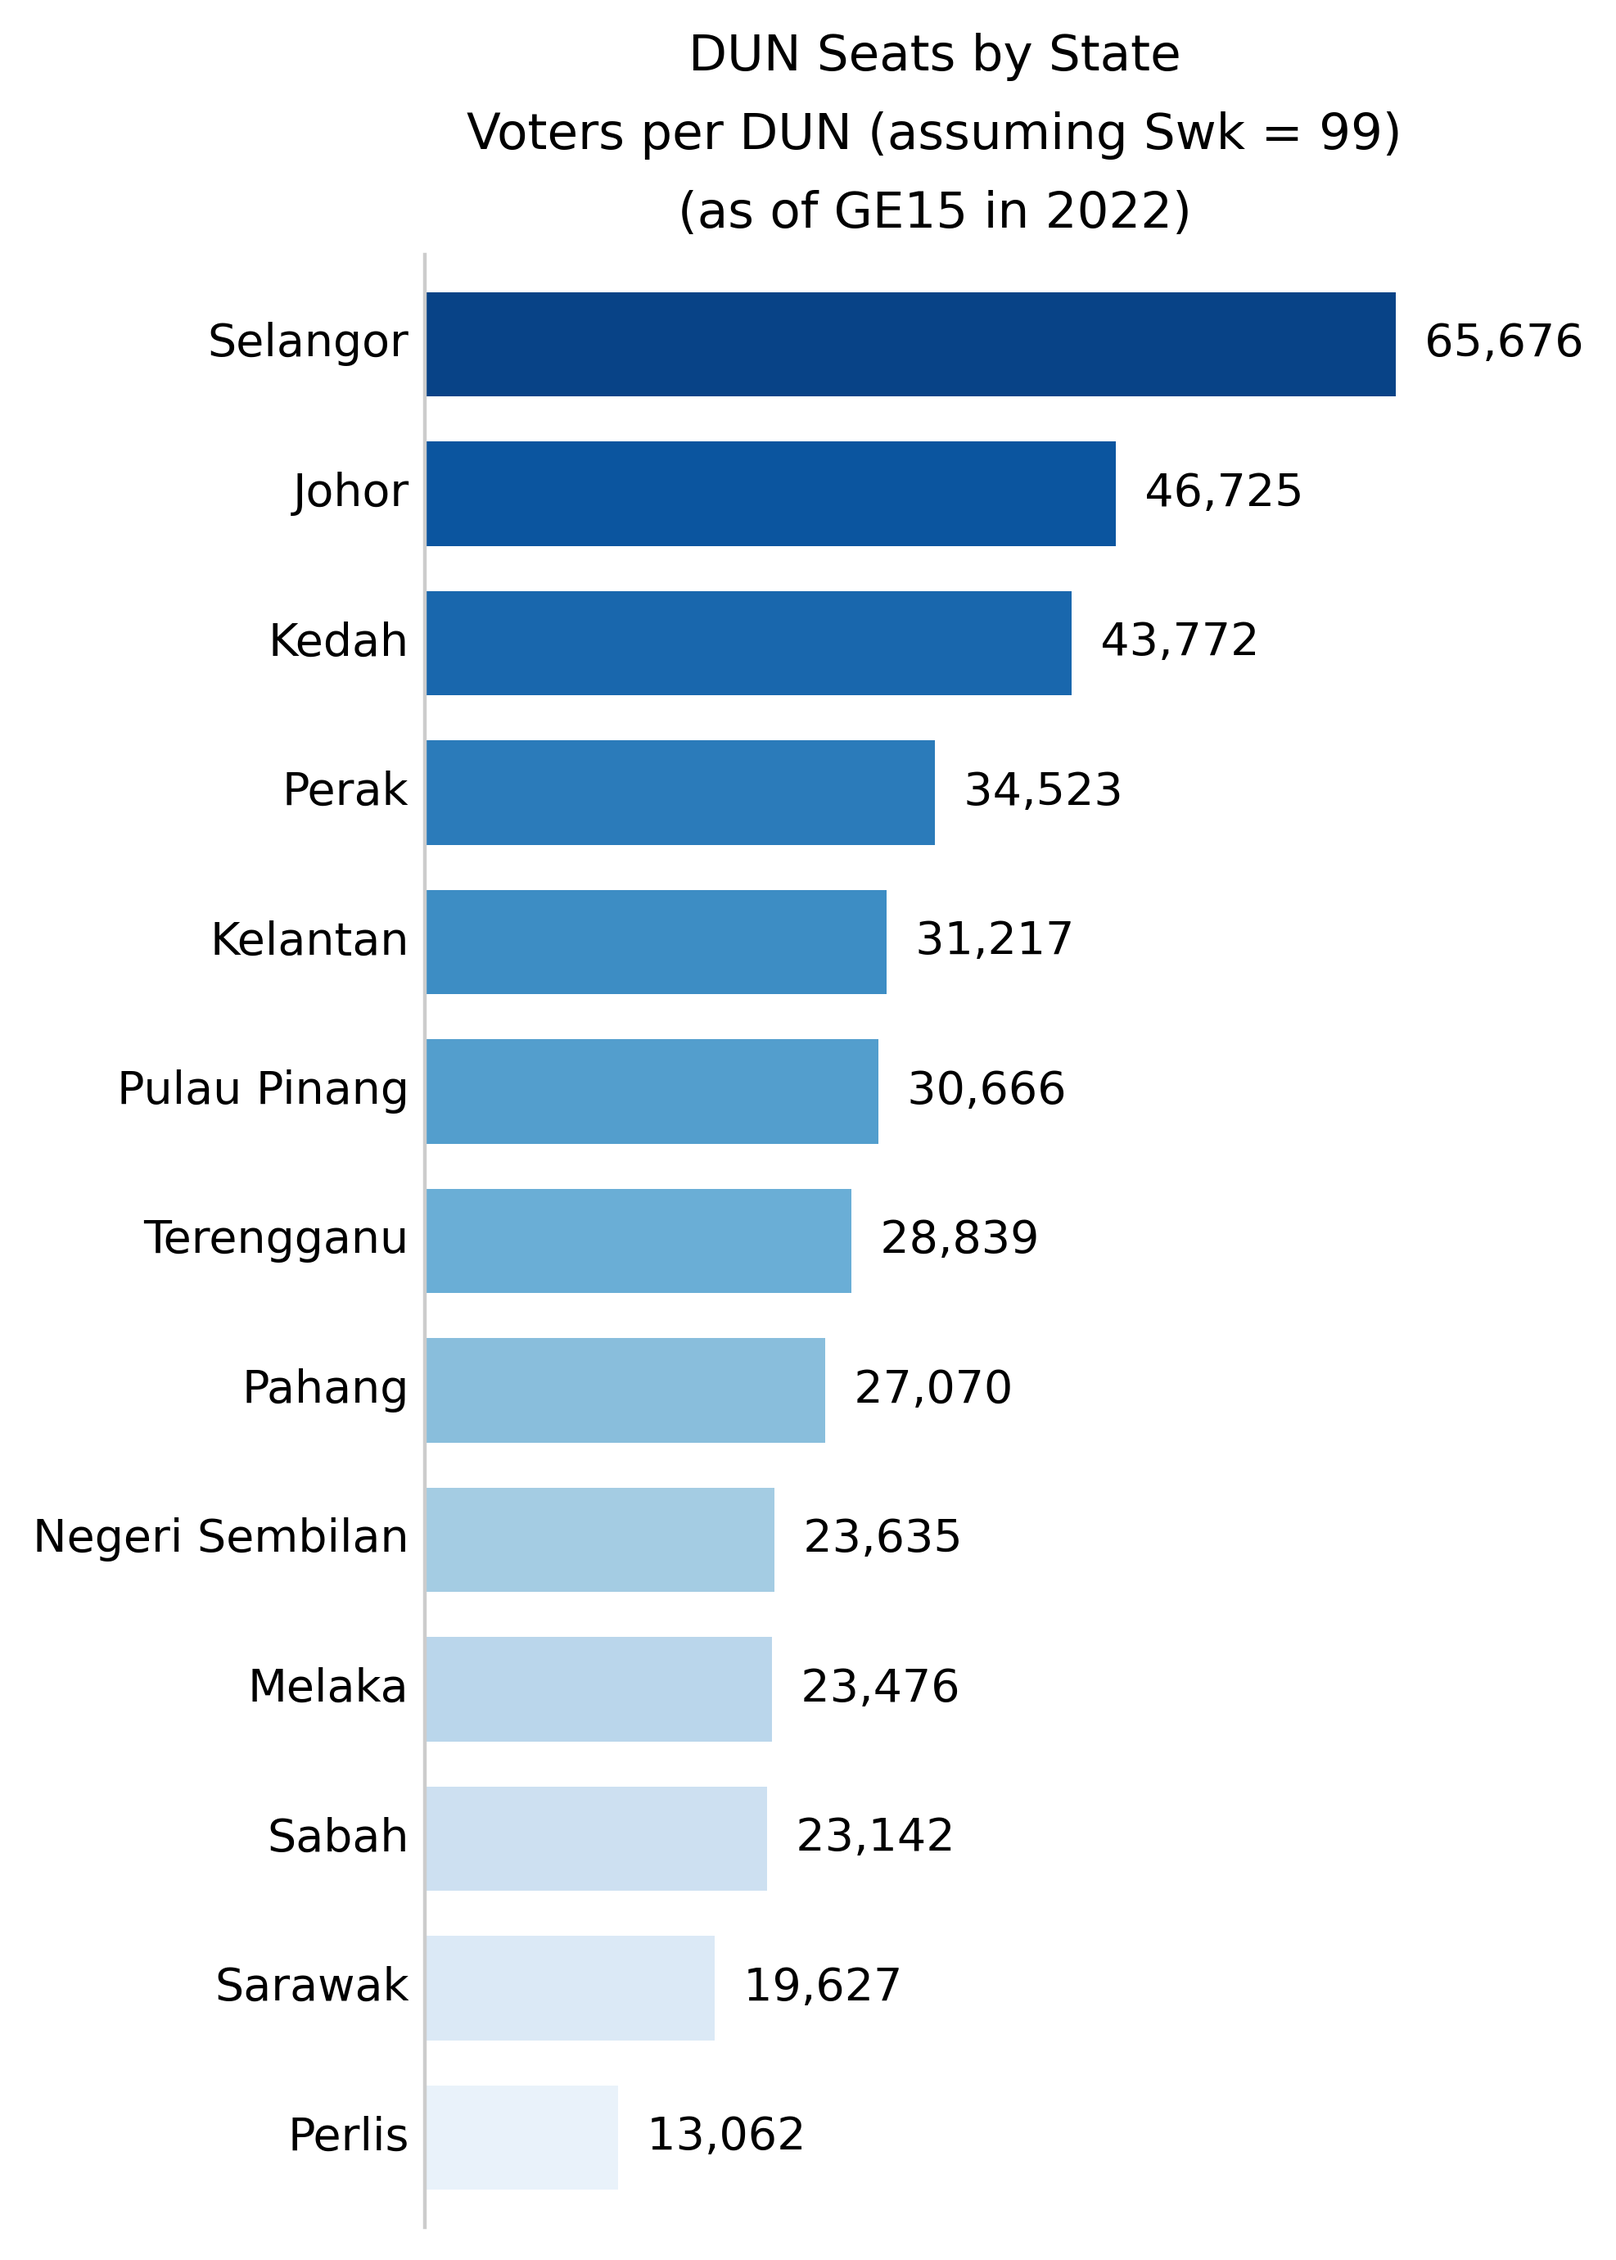
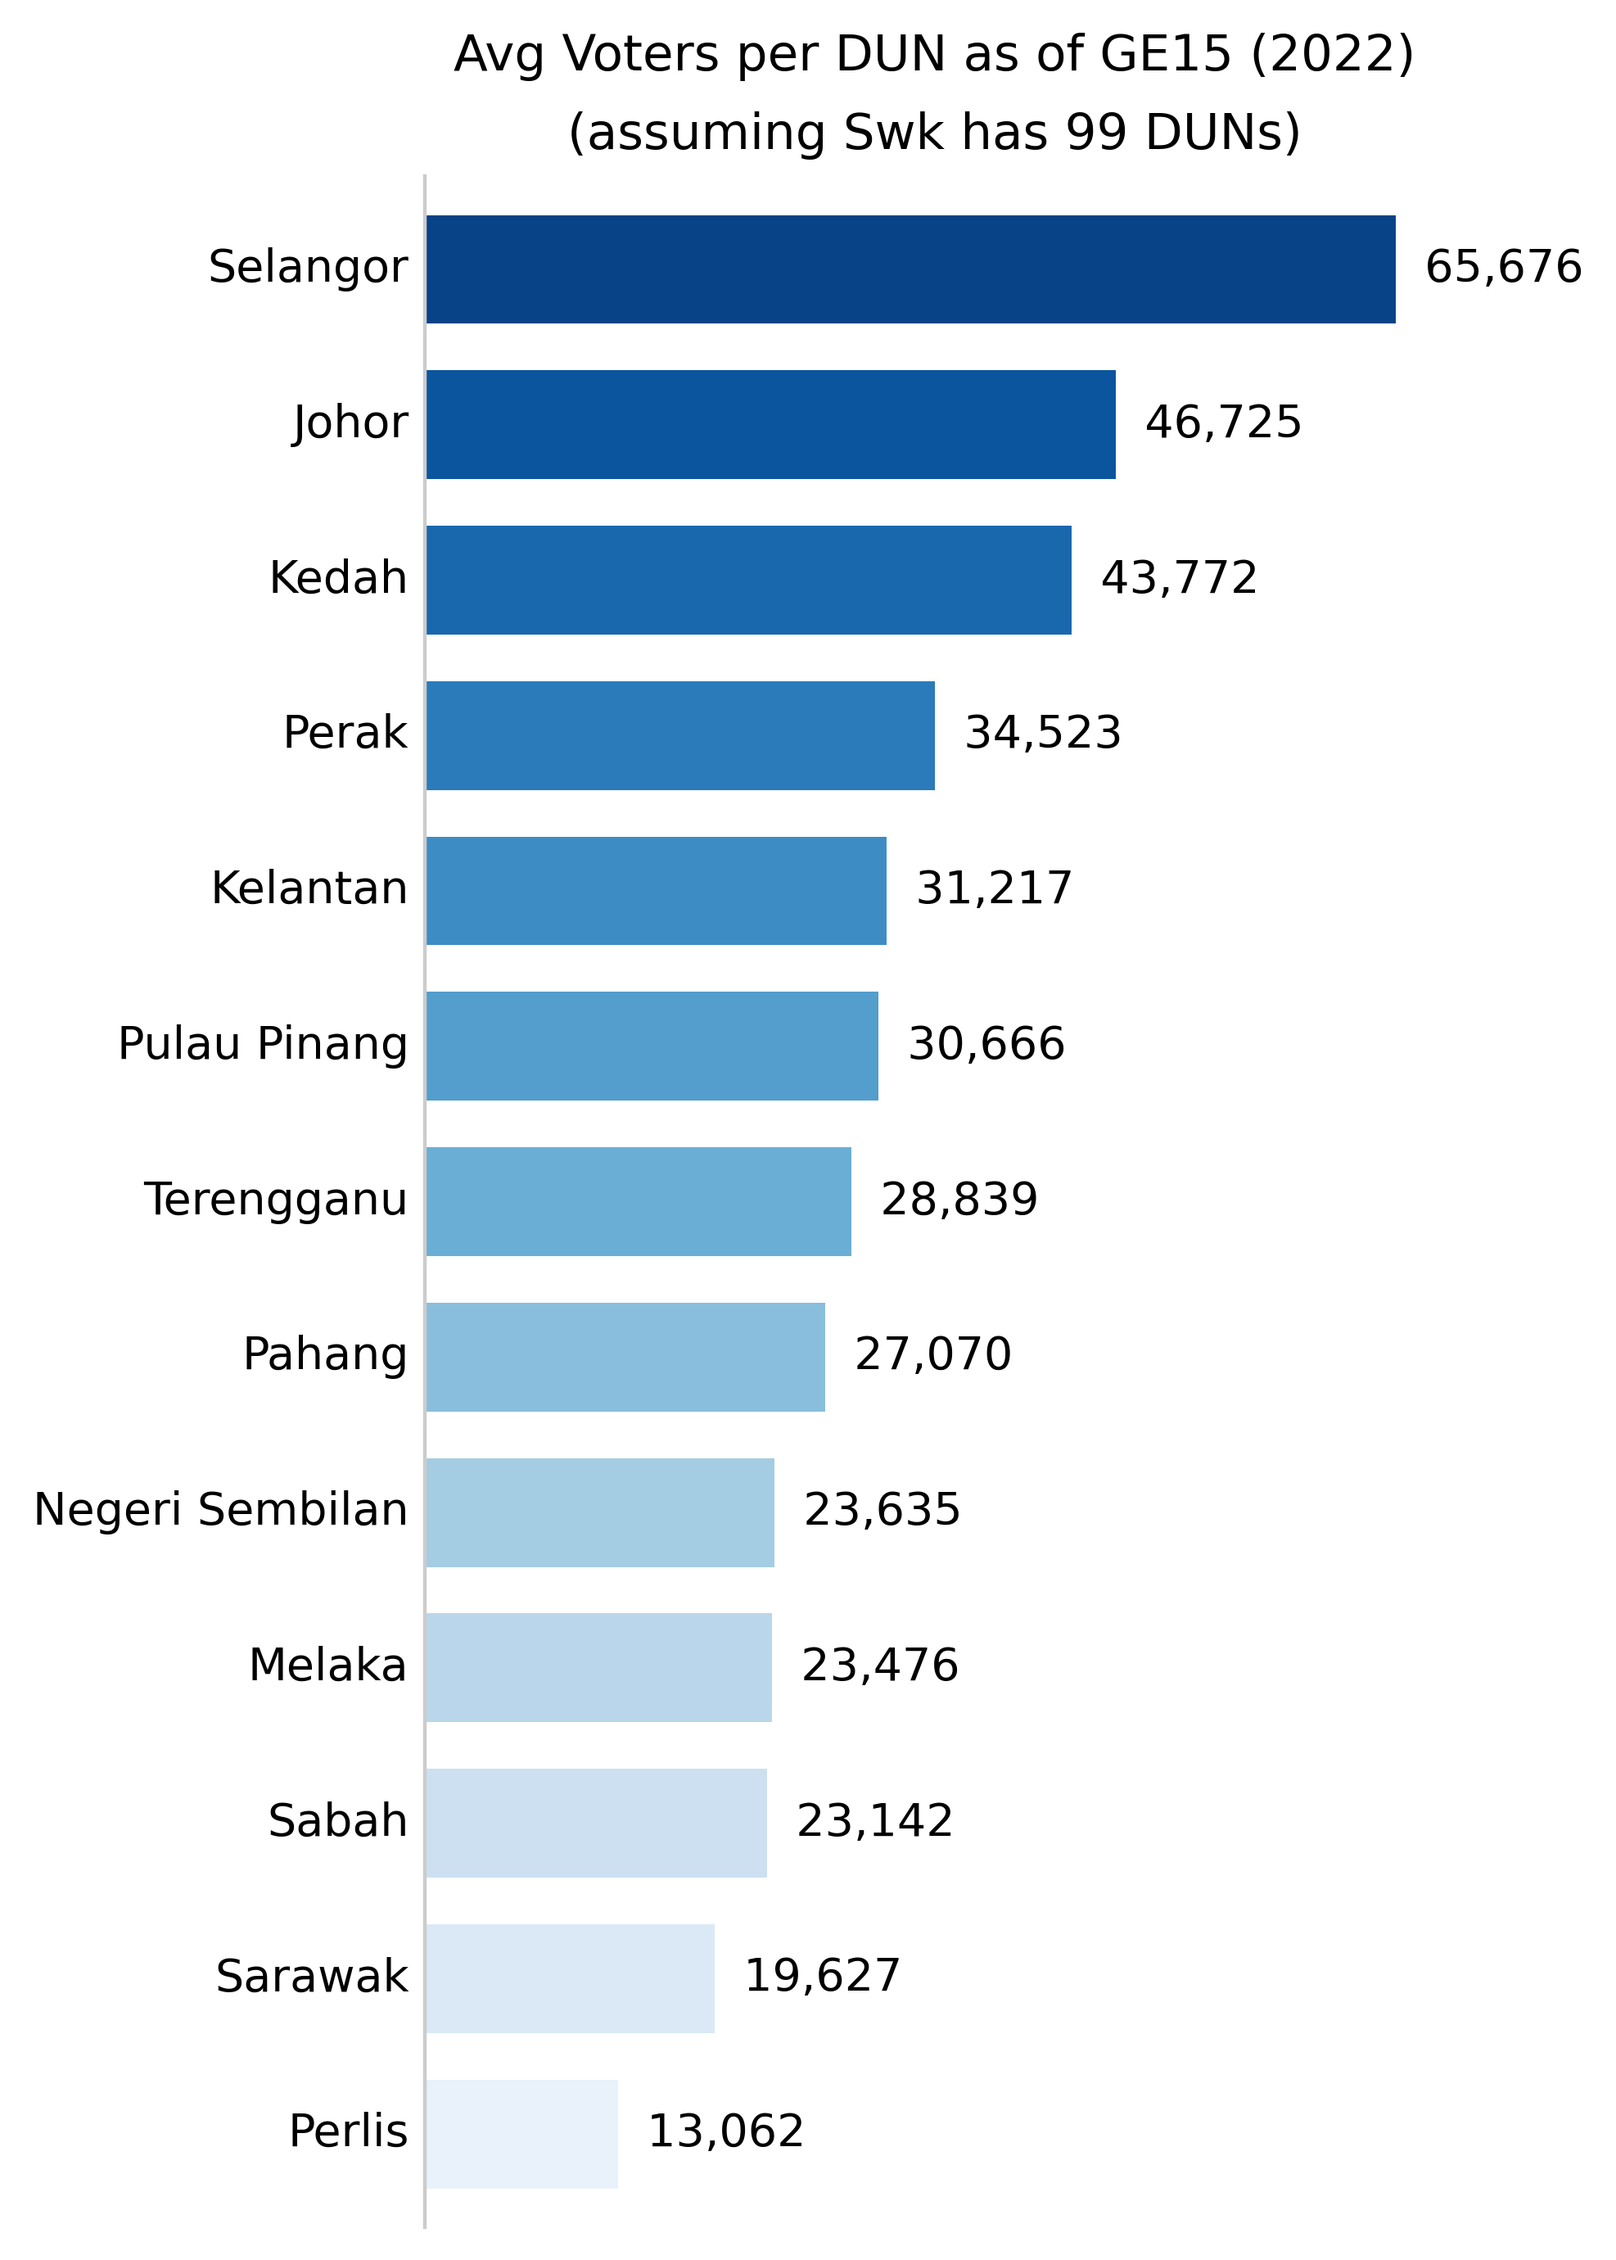
Add scatter chart for DUNs

diff --git a/2025-07-07_swk_dun/script.py b/2025-07-07_swk_dun/script.py
@@ -69,12 +69,13 @@ def bar_dun_size(V='maxmin'):
 
     pf = df.groupby('state').agg({'total': 'sum'}).reset_index()
     pf['seats'] = df.groupby('state').agg({'total': 'size'}).reset_index()['total']
+    pf.loc[pf.state == 'Sarawak','seats'] = 99
     pf['avg'] = pf['total'] / pf['seats']
     pf['min'] = df.groupby('state').agg({'total': 'min'}).reset_index()['total']
     pf['max'] = df.groupby('state').agg({'total': 'max'}).reset_index()['total']
     pf['maxmin'] = pf['max']/pf['min']
     pf['std'] = df.groupby('state').agg({'total': 'std'}).reset_index()['total']
-    pf = pf.sort_values(by='maxmin', ascending=True).set_index('state')
+    pf = pf.sort_values(by=V, ascending=True).set_index('state')
 
     plt.rcParams.update({'font.size': 10,
                         'font.family': 'sans-serif',
@@ -89,8 +90,8 @@ def bar_dun_size(V='maxmin'):
 
     # plot-wide adjustments
     SPACE = ''
-    var_desc = 'Size of biggest DUN vs smallest DUN' if V == 'maxmin' else 'Voters per DUN (assuming Swk = 99)'
-    ax.set_title(f"{SPACE}DUN Seats by State\n{var_desc}\n(as of GE15 in 2022)",linespacing=1.8,fontsize=11)
+    var_desc = 'Biggest DUN vs smallest DUN\nas of GE15 (2022)' if V == 'maxmin' else 'Avg Voters per DUN as of GE15 (2022)\n(assuming Swk has 99 DUNs)'
+    ax.set_title(f"{SPACE}{var_desc}",linespacing=1.8,fontsize=11)
     for b in ['top','right','bottom']: ax.spines[b].set_visible(False)
     ax.spines['left'].set_color('#cccccc')
     ax.get_legend().remove()
@@ -106,7 +107,10 @@ def bar_dun_size(V='maxmin'):
     ax.xaxis.grid(False)
     ax.get_xaxis().set_visible(False)
     for c in ax.containers:
-        labels = [f"  {pf[V].iloc[i]:,.2f}x" for i in range(len(pf))]
+        if V == 'maxmin':
+            labels = [f"  {pf[V].iloc[i]:,.2f}x" for i in range(len(pf))]
+        else:
+            labels = [f"  {pf[V].iloc[i]:,.0f}" for i in range(len(pf))]
         ax.bar_label(c, labels=labels,fontsize=10)
 
     # print chart title
@@ -121,7 +125,71 @@ def bar_dun_size(V='maxmin'):
     pf.sort_values(by='seats')
 
 
+def scatter_dun_eq():
+    df = pd.read_csv('voters_ge15.csv',usecols=['state','dun','total']).rename(columns={'total':'voters'})
+    df = df[~df.state.str.contains('W.P.')].reset_index(drop=True)
+    df['avg'] = df.groupby('state')['voters'].transform('mean').astype(int)
+    df['diff_eq'] = df.voters/df.avg
+    df['desc'] = 'Within 15% of avg'
+    df.loc[df.diff_eq > 1.15,'desc'] = 'Oversized'
+    df.loc[df.diff_eq < 0.85,'desc'] = 'Undersized'
+
+    af = df.groupby('state').agg({'diff_eq': 'size'}).reset_index()
+    af['undersized'] = df[df.diff_eq < 0.85].groupby('state').agg({'diff_eq': 'size'}).reset_index()['diff_eq']
+    af['prop_undersized'] = af.undersized/af.diff_eq
+    af['max_size'] = df.groupby('state').agg({'diff_eq': 'max'}).reset_index()['diff_eq']
+    af = af.sort_values(by='max_size',ascending=True)
+    STATE_PLOT = af.state.tolist()
+    df['diff_eq'] = (df.diff_eq * 100).round(2)
+
+    TARGET_PLOT = ['Undersized','Within 15% of avg','Oversized']
+    PLOT_COLOURS = ['blue','#c3c3c3','red']
+    COLOURS = dict(zip(TARGET_PLOT,PLOT_COLOURS))
+
+    plt.rcParams.update({'font.size': 10,
+                        'font.family': 'sans-serif',
+                        'grid.linestyle': 'dashed'})
+    plt.rcParams["figure.figsize"] = [6.5,6.5]
+    plt.rcParams["figure.autolayout"] = True
+    fig, ax = plt.subplots()
+
+    for s in STATE_PLOT:
+        for c in COLOURS:
+            ax.scatter(
+                df[(df.state == s) & (df.desc == c)]['diff_eq'], 
+                [s]*len(df[(df.state == s) & (df.desc == c)]), 
+                color=COLOURS[c], marker='o', s=70, label=c
+            )
+
+    # plot-wide adjustments
+    ax.set_title(f'Size of DUNs relative to state average\nas of GE-15 (November 2022)\n\n',linespacing=2,fontsize=11)
+    for b in ['top','right','left']: ax.spines[b].set_visible(False)
+    for b in ['bottom','left']: ax.spines[b].set_color('#cacaca')
+    ax.set_axisbelow(True)
+    ax.tick_params(axis=u'both', which=u'both',length=0)
+    ax.grid(True,alpha=0.5)
+
+    # y-axis adjustments
+    ax.set_ylabel('')
+
+    # x-axis adjustments
+    ax.set_xlabel('')
+    ax.set_xlim(20)
+    ax.get_xaxis().set_visible(True)
+    plt.xticks(rotation=0)
+    ax.set_xticklabels(['','-50%','State Avg','+50%','+100%','+150%','+200%'])
+
+    # legend
+    handles, labels = plt.gca().get_legend_handles_labels()
+    order = [x for x in range(len(TARGET_PLOT))]
+    ax.legend([handles[idx] for idx in order],[labels[idx] for idx in order], labelspacing=1, 
+            loc='upper center', framealpha=0.7, ncols=5, bbox_to_anchor=(0.5, 1.09))
+    
+    plt.savefig('scatter_dun_eq.png', dpi=400, bbox_inches='tight')
+
+
 if __name__ == '__main__':
     bar_dun_distribution()
     bar_dun_size(V='maxmin')
     bar_dun_size(V='avg')
+    scatter_dun_eq()
